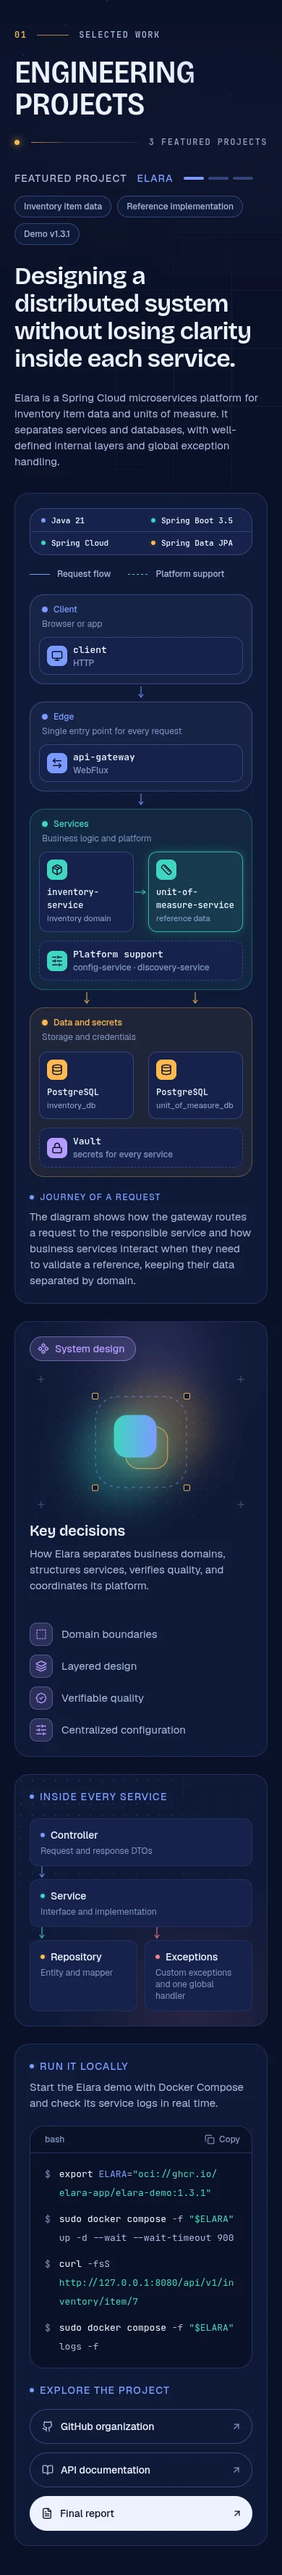
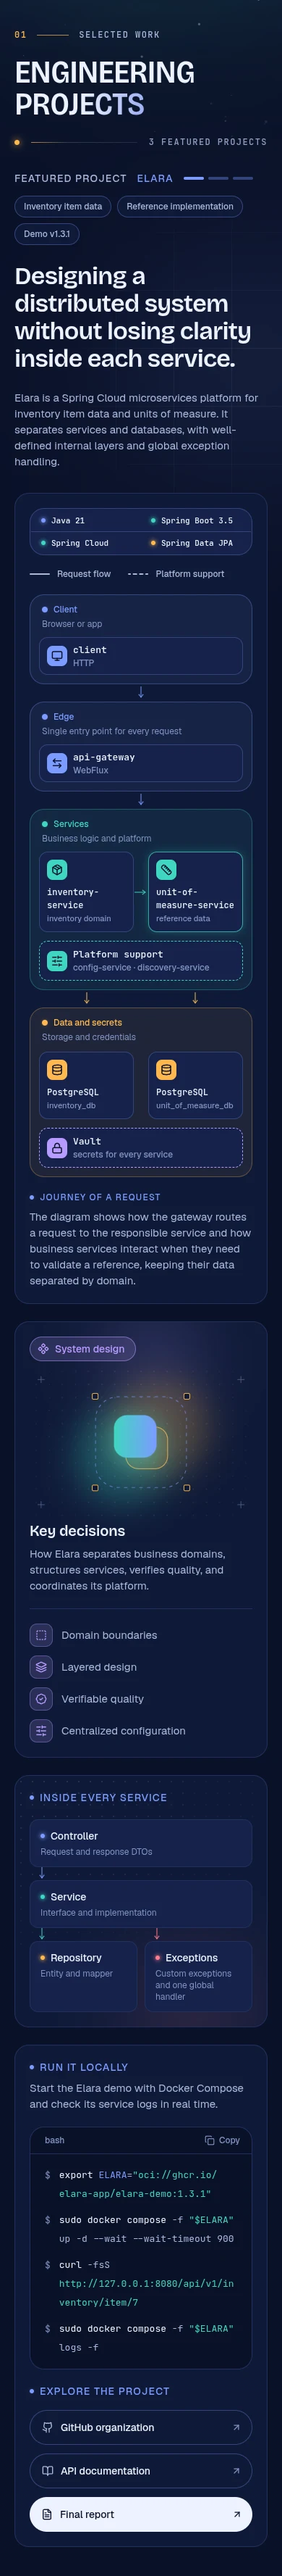
docs(evidence): refresh Elara browser evidence

diff --git a/docs/evidence/projects-elara/README.md b/docs/evidence/projects-elara/README.md
@@ -3,31 +3,35 @@
 Screenshots and browser checks captured from `npm run dev` for issue #9, the Section
 primitives and the Elara Featured project.
 
-| File                     | Viewport | State                                    |
-| :----------------------- | :------- | :--------------------------------------- |
-| `before-1440.webp`       | 1440×900 | Shell + Hero, before Elara               |
-| `before-768.webp`        | 768×900  | Shell + Hero, before Elara               |
-| `before-390.webp`        | 390×844  | Shell + Hero, before Elara               |
-| `before-375.webp`        | 375×812  | Shell + Hero, before Elara               |
-| `after-1440.webp`        | 1440     | Full page with the Elara section         |
-| `after-768.webp`         | 768      | Full page with the Elara section         |
-| `after-390.webp`         | 390      | Full page with the Elara section         |
-| `after-375.webp`         | 375      | Full page with the Elara section         |
-| `section-1440.webp`      | 1440     | `#projects` section only                 |
-| `section-768.webp`       | 768      | `#projects` section only                 |
-| `section-390.webp`       | 390      | `#projects` section only                 |
-| `button-focus-1440.webp` | 1440     | GitHub organization link, keyboard focus |
-| `nav-focus-390.webp`     | 390×844  | After the mobile Projects nav click      |
+| File                      | Viewport | State                                    |
+| :------------------------ | :------- | :--------------------------------------- |
+| `before-1440.webp`        | 1440×900 | Shell + Hero, before Elara               |
+| `before-768.webp`         | 768×900  | Shell + Hero, before Elara               |
+| `before-390.webp`         | 390×844  | Shell + Hero, before Elara               |
+| `before-375.webp`         | 375×812  | Shell + Hero, before Elara               |
+| `after-1440.webp`         | 1440     | Full page with the Elara section         |
+| `after-768.webp`          | 768      | Full page with the Elara section         |
+| `after-390.webp`          | 390      | Full page with the Elara section         |
+| `after-375.webp`          | 375      | Full page with the Elara section         |
+| `wide-1600.webp`          | 1600     | Full page, full-bleed Hero atmosphere    |
+| `section-1440.webp`       | 1440     | `#projects` section only                 |
+| `section-768.webp`        | 768      | `#projects` section only                 |
+| `section-390.webp`        | 390      | `#projects` section only                 |
+| `button-focus-1440.webp`  | 1440     | GitHub organization link, keyboard focus |
+| `copy-feedback-1440.webp` | 1440     | "Run it locally" copy success state      |
+| `nav-focus-390.webp`      | 390×844  | After the mobile Projects nav click      |
 
-The Hero content is unchanged. The Hero atmosphere now fades at the Hero frame and the
-Featured area continues it with the Figma seam fade and continuation particles, so there is
-no horizontal seam between the two sections. The section-only shots are the direct
-comparison against the Figma frames at 1440, 768, and 390.
+The Hero content is unchanged. The Hero particle field is now full-bleed, the glows are no
+longer clipped to the 1440px canvas, and the atmosphere fades into the Featured area; the
+section's own top-corner glows are removed. There is no horizontal seam at the boundary and
+no fixed-canvas edge on wide viewports. The section-only shots compare the section content
+against the Figma frames at 1440, 768, and 390; the boundary is intentionally continuous
+rather than reproducing the standalone Figma seam frame.
 
 ## Browser checks
 
 - **No horizontal overflow:** `document.documentElement.scrollWidth` equals the viewport at
-  1440, 768, 390, and 375. The diagram map and tier bands report `scrollWidth ===
+  2048, 1600, 1440, 768, 390, and 375. The diagram map and tier bands report `scrollWidth ===
 clientWidth`; the remaining interior overflow is the intentionally clipped decorative
   glow in the service card.
 - **Console:** no new browser console errors on the Elara page.
@@ -37,6 +41,10 @@ clientWidth`; the remaining interior overflow is the intentionally clipped decor
   area. Experience, Education, and Contact remain unresolved until #12/#13.
 - **Link focus:** the GitHub organization link shows the shared `:focus-visible` outline
   (2px teal, 2px offset) in `button-focus-1440.webp`.
+- **Copy:** the “Run it locally” Copy button writes the four commands (without the `$`
+  prompts) to the clipboard, swaps the copy glyph for a check while switching to “Copied”
+  in the same colour, and announces “Commands copied.” through a visually hidden status
+  region. It resets after 3 seconds; `copy-feedback-1440.webp` shows the state.
 - **Diagrams:** both diagrams are HTML/CSS/SVG with text labels and a figure caption; the
   request-journey connectors and decorative ticks are SVG assets, not raster screenshots.
-- **Passing gate:** `npm run verify` passed on the implementation commit.
+- **Passing gate:** `npm run verify` passes on the working tree.
